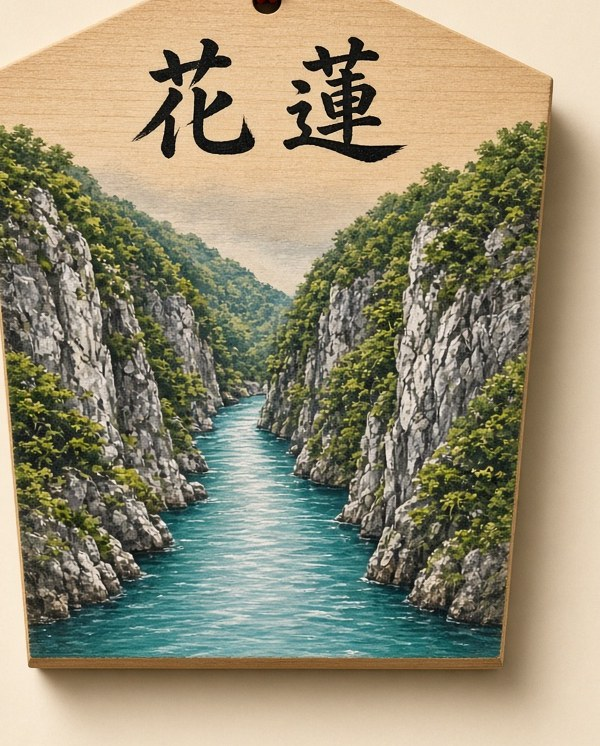
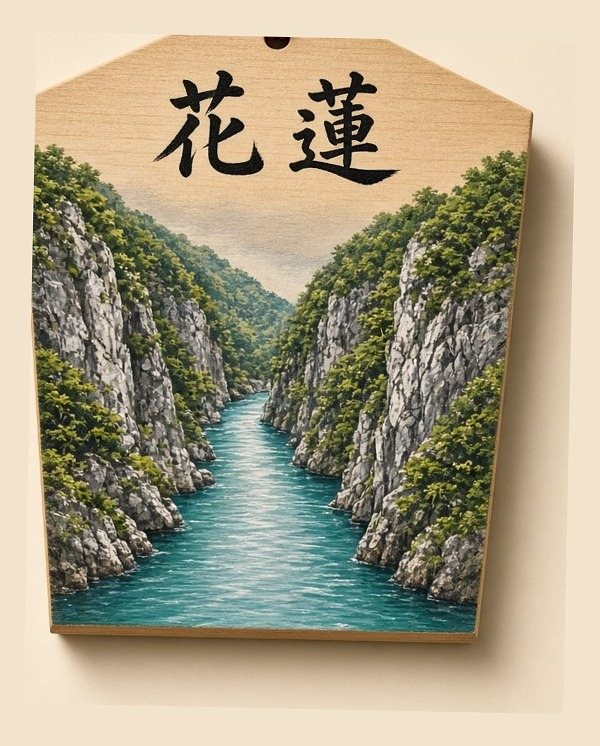
fix: 明信片郵票釘在右上，花蓮紀念品擺正 (v2.26.9)
風景在郵票底下慢慢推移，郵票和郵戳留在卡片右上。花蓮御守、朱印、車票、卡包、徽章、繪馬擺正。快取 tripmate-v82。

diff --git a/index.html b/index.html
@@ -1071,8 +1071,14 @@ html.dark .sovstory{box-shadow:none;border:1px solid var(--line)}
 .postart{display:block;width:100%;height:auto;filter:drop-shadow(0 8px 10px rgba(80,50,20,.16))}
 .post-print{width:min(360px,100%);background:transparent}
 .postimg{display:block;width:100%;height:auto;border-radius:14px}
-.post-live{overflow:hidden;border-radius:16px}
-.post-live .postimg{transform-origin:48% 54%;animation:postcardlive 16s ease-in-out infinite alternate}
+.post-live{border-radius:16px}
+.post-card{position:relative;display:block;width:100%;line-height:0;border-radius:16px;overflow:hidden}
+.post-base{display:block;width:100%;height:auto;border-radius:0}
+.post-window{position:absolute;z-index:1;overflow:hidden;left:var(--wl);top:var(--wt);width:var(--ww);height:var(--wh)}
+.post-frank{position:absolute;z-index:2;left:var(--fl);top:var(--ft);width:var(--fw);height:auto;pointer-events:none}
+.post-live[data-mark="gorge"]{--wl:3.897%;--wt:5.714%;--ww:88.41%;--wh:84.511%;--il:-4.408%;--it:-6.761%;--iw:113.109%;--ih:118.327%;--fl:73.026%;--ft:7.068%;--fw:22.872%;--ox:48.103%;--oy:47.97%}
+.post-live[data-mark="skytree"]{--wl:3.818%;--wt:5.037%;--ww:92.047%;--wh:90.074%;--il:-4.147%;--it:-5.592%;--iw:108.641%;--ih:111.02%;--fl:65.642%;--ft:8.593%;--fw:24.708%;--ox:49.841%;--oy:50.074%}
+.post-live .post-window .postimg{position:absolute;left:var(--il);top:var(--it);width:var(--iw);height:var(--ih);max-width:none;border-radius:0;transform-origin:var(--ox) var(--oy);animation:postcardlive 16s ease-in-out infinite alternate}
 @keyframes postcardlive{from{transform:scale(1)}to{transform:scale(1.055) translate3d(-1.4%,.6%,0)}}
 .sov-lg .mcard-shine,.boardface .mcard-shine{animation:none;opacity:0}
 .sovcap .bp-route{display:flex;justify-content:center;align-items:flex-end;gap:8px;line-height:1.1;margin-bottom:2px}
@@ -1120,7 +1126,7 @@ html.dark .sovstory{box-shadow:none;border:1px solid var(--line)}
  .sovhit,.sovplay{transition:none}
  .vmap-page,.spotpin,.spotpin-dot,.vmap-stage .vmap,.vreg{animation:none!important;transition:none!important}
  .spotpin{opacity:1}
- .post-live .postimg{animation:none;transform:none}
+ .post-live .post-window .postimg{animation:none;transform:none}
  .jstamp.thump,.jstamp.in{opacity:.92;transform:rotate(-14deg) scale(1)}
  .archsum,.archsum.in{opacity:1;transition:none}
 }
@@ -1304,7 +1310,7 @@ addEventListener('load',()=>(window.requestIdleCallback||setTimeout)(()=>setTime
 let impP=null;function openImport(){return (impP||(impP=new Promise((ok,no)=>{const e=document.createElement('script');e.src='importer.js';e.onload=ok;e.onerror=()=>{impP=null;no()};document.head.append(e)}))).then(()=>importSheet()).catch(()=>toast('載入失敗，請稍後再試'))}
 function ticketTodayCount(t){if(!t||typeof Tickets==='undefined'||!Tickets.isToday)return 0;const today=Tickets.todayYmd();return (t.tickets||[]).filter(x=>!x.used&&Tickets.isToday(x,t,today)).length}
 function render(){const on=k=>k===tab||(k==='list'&&(tab==='edit'||tab==='new'));const nToday=ticketTodayCount(T());$('#nav').innerHTML=TABS.map(([k,n])=>{const badge=k==='expense'&&nToday?`<b class="nb">${nToday>99?'99+':nToday}</b>`:'';const label=k==='expense'&&nToday?` aria-label="支出與票券，今天 ${nToday} 張"`:'';const wide=n.length>2?' wide':'';return `<button class="${on(k)?'on':''}${wide}" onclick="go('${k}')"${label}><span class="nic">${badge}<svg viewBox="0 0 24 24">${TI[k]}</svg></span>${n}</button>`}).join('');$('#app').innerHTML=V[tab]()+foot();if(tab==='edit'){bindDays();bindSort();const tt=T();if(tt)wxLoad(tt);if(typeof fillLive==='function')fillLive();maybeAutoShift()}if(tab==='deals'||tab==='edit')loadDeals();if(tab==='expense'&&expPane!=='tix'&&typeof paintExp==='function')paintExp();if(tab==='food'&&typeof paintFood==='function')paintFood();if(tab==='more'&&typeof paintAccount==='function')paintAccount();if(tab==='more'&&typeof paintBackupHint==='function')paintBackupHint();xswLinks();if(window.Journey)Journey.afterPaint()}
-const foot=()=>{const t=T(),fly=t?flyUrl(t):`${BASE}flysave/?from=trip`,fan=t?fanUrl(t):`${BASE}fansave/?from=trip`;return `<footer><div class="fb"><a class="cb" href="${SPONSOR_URL}" target="_blank" rel="noopener"><img src="icons/coffee-trip.svg" alt="" width="40" height="40">贊助</a><a class="cb" href="#" onclick="shareSite();return false"><img src="icons/share-trip.svg" alt="" width="40" height="40">分享</a></div><div class="fl"><a href="#" onclick="info('about');return false">關於我們</a><i>|</i><a href="#" onclick="info('privacy');return false">隱私權政策</a><i>|</i><a href="#" onclick="info('terms');return false">服務條款</a></div><div class="fs"><a class="sfly" id="sfly" href="${fly}"><img src="icons/fly-fly.svg" alt="" width="24" height="24">飛省 查機票</a><a class="sfan" id="sfan" href="${fan}"><img src="icons/hotel-fan.svg" alt="" width="24" height="24">飯省 找飯店</a></div><div class="vw" id="vw"${VW?``:` hidden`}>${VW?`👀 累計瀏覽 ${VW.toLocaleString()}`:``}</div><div class="copy">© 2026 旅伴 TripMate・推薦景點資料截至 2026-10-19・v2.26.8</div></footer>`};
+const foot=()=>{const t=T(),fly=t?flyUrl(t):`${BASE}flysave/?from=trip`,fan=t?fanUrl(t):`${BASE}fansave/?from=trip`;return `<footer><div class="fb"><a class="cb" href="${SPONSOR_URL}" target="_blank" rel="noopener"><img src="icons/coffee-trip.svg" alt="" width="40" height="40">贊助</a><a class="cb" href="#" onclick="shareSite();return false"><img src="icons/share-trip.svg" alt="" width="40" height="40">分享</a></div><div class="fl"><a href="#" onclick="info('about');return false">關於我們</a><i>|</i><a href="#" onclick="info('privacy');return false">隱私權政策</a><i>|</i><a href="#" onclick="info('terms');return false">服務條款</a></div><div class="fs"><a class="sfly" id="sfly" href="${fly}"><img src="icons/fly-fly.svg" alt="" width="24" height="24">飛省 查機票</a><a class="sfan" id="sfan" href="${fan}"><img src="icons/hotel-fan.svg" alt="" width="24" height="24">飯省 找飯店</a></div><div class="vw" id="vw"${VW?``:` hidden`}>${VW?`👀 累計瀏覽 ${VW.toLocaleString()}`:``}</div><div class="copy">© 2026 旅伴 TripMate・推薦景點資料截至 2026-10-19・v2.26.9</div></footer>`};
 const V={
 list:()=>{const card=t=>`<div class="card${t.archived?' shelf':''}" onclick="cur='${t.id}';dayIx=0;save();go('edit')" style="cursor:pointer"><div class="row"><div>${ui('suitcase')}<b>${esc(t.dest)}</b> <span class="mut">${esc(t.dep)} → ${esc(t.ret)} · ${esc(t.pax)} 人</span></div><span style="flex:0" onclick="event.stopPropagation()">${ib('del',`delTrip('${t.id}')`,'刪除')}</span></div><div class="mut">${t.archived?'已封存 · ':''}${(t.days||[]).flat().length} 個景點</div></div>`;const live=trips.filter(t=>!t.archived),arch=trips.filter(t=>t.archived);const head=`<div class="row" style="justify-content:space-between;align-items:center"><h2 style="margin:0">我的行程</h2><button class="btn sm" style="flex:0" onclick="go('new')">＋ 新增行程</button></div><div class="row" style="margin:8px 0"><button class="btn ghost sm" style="flex:0" onclick="openImport()">匯入行程</button></div>`;const liveHtml=live.length?live.map(card).join(''):(arch.length?`<div class="card"><p>沒有進行中的行程。</p><button class="btn" onclick="go('new')">建立新行程</button></div>`:`<div class="card"><p>還沒有行程。</p><button class="btn" onclick="go('new')">建立第一個行程</button></div>`);const been=window.Journey?`<button type="button" class="vmap-entry" onclick="Journey.openVisitMap()"><span class="vmap-ico" aria-hidden="true"><svg viewBox="0 0 24 24"><path d="M4 6l6-2 4 2 6-2v14l-6 2-4-2-6 2z"/><path d="M10 4v14M14 6v14"/></svg></span><span><b>去過的地方</b><small>${esc(Journey.visitBrief())}</small></span></button>`:'';const keeps=window.Journey&&Journey.shelfHtml?Journey.shelfHtml(arch):(arch.length?`<h3 class="shelfhead">封存</h3>${arch.map(card).join('')}`:'');return head+been+liveHtml+keeps},
 new:()=>{let d=new Date(Date.now()+14*864e5).toISOString().slice(0,10),r=new Date(Date.now()+18*864e5).toISOString().slice(0,10);const ok=x=>x&&/^\d{4}-\d\d-\d\d$/.test(x)&&x>=new Date().toISOString().slice(0,10);if(PF){if(ok(PF.dep))d=PF.dep;if(ok(PF.ret)&&PF.ret>=d)r=PF.ret;else if(ok(PF.dep)){const x=new Date(d);x.setDate(x.getDate()+3);r=x.toISOString().slice(0,10)}}

diff --git a/sw.js b/sw.js
@@ -1,4 +1,4 @@
-const C='tripmate-v81',A=['./','index.html','manifest.json','planner.js','placeq.js','placeurl.js','legs.js','journey.js','extras.js','food.js','fx.js','share.js','tickets.js','notify.js','visitgeo.js','spotlore.js','vendor/lz-string.min.js','sync.js','collab.js','live.js','importer.js','urlimport.js','data/local-food.json','icons/icon.svg','icons/icon-192.png','icons/ui-spot.svg','icons/ui-fly.svg','icons/ui-hotel.svg','icons/ui-suitcase.svg','icons/coffee-trip.svg','icons/share-trip.svg','icons/fly-fly.svg','icons/hotel-fan.svg','icons/cat-food.svg','icons/cat-sightseeing.svg','icons/cat-shopping.svg','icons/cat-hotel.svg','icons/cat-transport.svg','icons/cat-cafe.svg','icons/cat-nature.svg','icons/cat-museum.svg','icons/cat-nightlife.svg','icons/cat-custom.svg','assets/keepsakes/pass-0.webp','assets/keepsakes/pass-1.webp','assets/keepsakes/pass-2.webp','assets/keepsakes/pass-3.webp','assets/keepsakes/pass-4.webp','assets/keepsakes/charm-0.webp','assets/keepsakes/charm-1.webp','assets/keepsakes/charm-2.webp','assets/keepsakes/charm-3.webp','assets/keepsakes/charm-4.webp','assets/keepsakes/pack-0.webp','assets/keepsakes/pack-1.webp','assets/keepsakes/pack-2.webp','assets/keepsakes/pack-3.webp','assets/keepsakes/pack-4.webp','assets/keepsakes/stamp-0.webp','assets/keepsakes/stamp-1.webp','assets/keepsakes/stamp-2.webp','assets/keepsakes/stamp-3.webp','assets/keepsakes/stamp-4.webp','assets/keepsakes/post-gorge.jpg','assets/keepsakes/post-skytree.jpg','assets/keepsakes/charm-hul.jpg','assets/keepsakes/charm-tyo.jpg','assets/keepsakes/stamp-hul.jpg','assets/keepsakes/stamp-tyo.jpg','assets/keepsakes/pass-hul.jpg','assets/keepsakes/pack-hul.jpg','assets/keepsakes/badge-hul.jpg','assets/keepsakes/ema-hul.jpg','assets/keepsakes/card-0.webp','assets/keepsakes/card-1.webp','assets/keepsakes/card-2.webp','assets/keepsakes/card-3.webp','assets/keepsakes/card-4.webp','assets/keepsakes/badge-0.webp','assets/keepsakes/badge-1.webp','assets/keepsakes/badge-2.webp','assets/keepsakes/badge-3.webp','assets/keepsakes/badge-4.webp','assets/keepsakes/ema-0.webp','assets/keepsakes/ema-1.webp','assets/keepsakes/ema-2.webp','assets/keepsakes/ema-3.webp','assets/keepsakes/ema-4.webp'];
+const C='tripmate-v82',A=['./','index.html','manifest.json','planner.js','placeq.js','placeurl.js','legs.js','journey.js','extras.js','food.js','fx.js','share.js','tickets.js','notify.js','visitgeo.js','spotlore.js','vendor/lz-string.min.js','sync.js','collab.js','live.js','importer.js','urlimport.js','data/local-food.json','icons/icon.svg','icons/icon-192.png','icons/ui-spot.svg','icons/ui-fly.svg','icons/ui-hotel.svg','icons/ui-suitcase.svg','icons/coffee-trip.svg','icons/share-trip.svg','icons/fly-fly.svg','icons/hotel-fan.svg','icons/cat-food.svg','icons/cat-sightseeing.svg','icons/cat-shopping.svg','icons/cat-hotel.svg','icons/cat-transport.svg','icons/cat-cafe.svg','icons/cat-nature.svg','icons/cat-museum.svg','icons/cat-nightlife.svg','icons/cat-custom.svg','assets/keepsakes/pass-0.webp','assets/keepsakes/pass-1.webp','assets/keepsakes/pass-2.webp','assets/keepsakes/pass-3.webp','assets/keepsakes/pass-4.webp','assets/keepsakes/charm-0.webp','assets/keepsakes/charm-1.webp','assets/keepsakes/charm-2.webp','assets/keepsakes/charm-3.webp','assets/keepsakes/charm-4.webp','assets/keepsakes/pack-0.webp','assets/keepsakes/pack-1.webp','assets/keepsakes/pack-2.webp','assets/keepsakes/pack-3.webp','assets/keepsakes/pack-4.webp','assets/keepsakes/stamp-0.webp','assets/keepsakes/stamp-1.webp','assets/keepsakes/stamp-2.webp','assets/keepsakes/stamp-3.webp','assets/keepsakes/stamp-4.webp','assets/keepsakes/post-gorge.jpg','assets/keepsakes/post-gorge-stamp.png','assets/keepsakes/post-skytree.jpg','assets/keepsakes/post-skytree-stamp.png','assets/keepsakes/charm-hul.jpg','assets/keepsakes/charm-tyo.jpg','assets/keepsakes/stamp-hul.jpg','assets/keepsakes/stamp-tyo.jpg','assets/keepsakes/pass-hul.jpg','assets/keepsakes/pack-hul.jpg','assets/keepsakes/badge-hul.jpg','assets/keepsakes/ema-hul.jpg','assets/keepsakes/card-0.webp','assets/keepsakes/card-1.webp','assets/keepsakes/card-2.webp','assets/keepsakes/card-3.webp','assets/keepsakes/card-4.webp','assets/keepsakes/badge-0.webp','assets/keepsakes/badge-1.webp','assets/keepsakes/badge-2.webp','assets/keepsakes/badge-3.webp','assets/keepsakes/badge-4.webp','assets/keepsakes/ema-0.webp','assets/keepsakes/ema-1.webp','assets/keepsakes/ema-2.webp','assets/keepsakes/ema-3.webp','assets/keepsakes/ema-4.webp'];
 // 繞過 GitHub Pages 的 max-age，避免新快取被 HTTP 快取塞進舊的 index.html
 async function putFresh(cache,url){
   const res=await fetch(new Request(url,{cache:'reload'}));

diff --git a/journey.js b/journey.js
@@ -1090,7 +1090,8 @@
     const label = (b.city || '') + (b.land ? ' ' + b.land : '');
     const src = postcardPrint(b.mark);
     if (src) {
-      return '<span class="post post-print post-live" data-mark="' + esc(b.mark) + '"><img class="postimg" src="' + src + '" alt="' + esc(label) + '" draggable="false"></span>';
+      const frank = src.replace('.jpg', '-stamp.png');
+      return '<span class="post post-print post-live" data-mark="' + esc(b.mark) + '" role="img" aria-label="' + esc(label) + '"><span class="post-card"><img class="post-base" src="' + src + '" alt="" draggable="false"><span class="post-window"><img class="postimg" src="' + src + '" alt="" draggable="false"></span><img class="post-frank" src="' + frank + '" alt="" draggable="false"></span></span>';
     }
     const id = sovId('post');
     return '<span class="post"><svg class="postart" viewBox="0 0 360 220" role="img" aria-label="' + esc(label) + '" data-mark="' + esc(b.mark) + '"><rect width="360" height="220" rx="18" fill="#f7f2e8"/><clipPath id="' + id + '"><rect x="14" y="14" width="332" height="168" rx="12"/></clipPath><g clip-path="url(#' + id + ')">' + postcardScene(b, id) + '</g>' + postcardStamp(b) + '</svg></span>';
